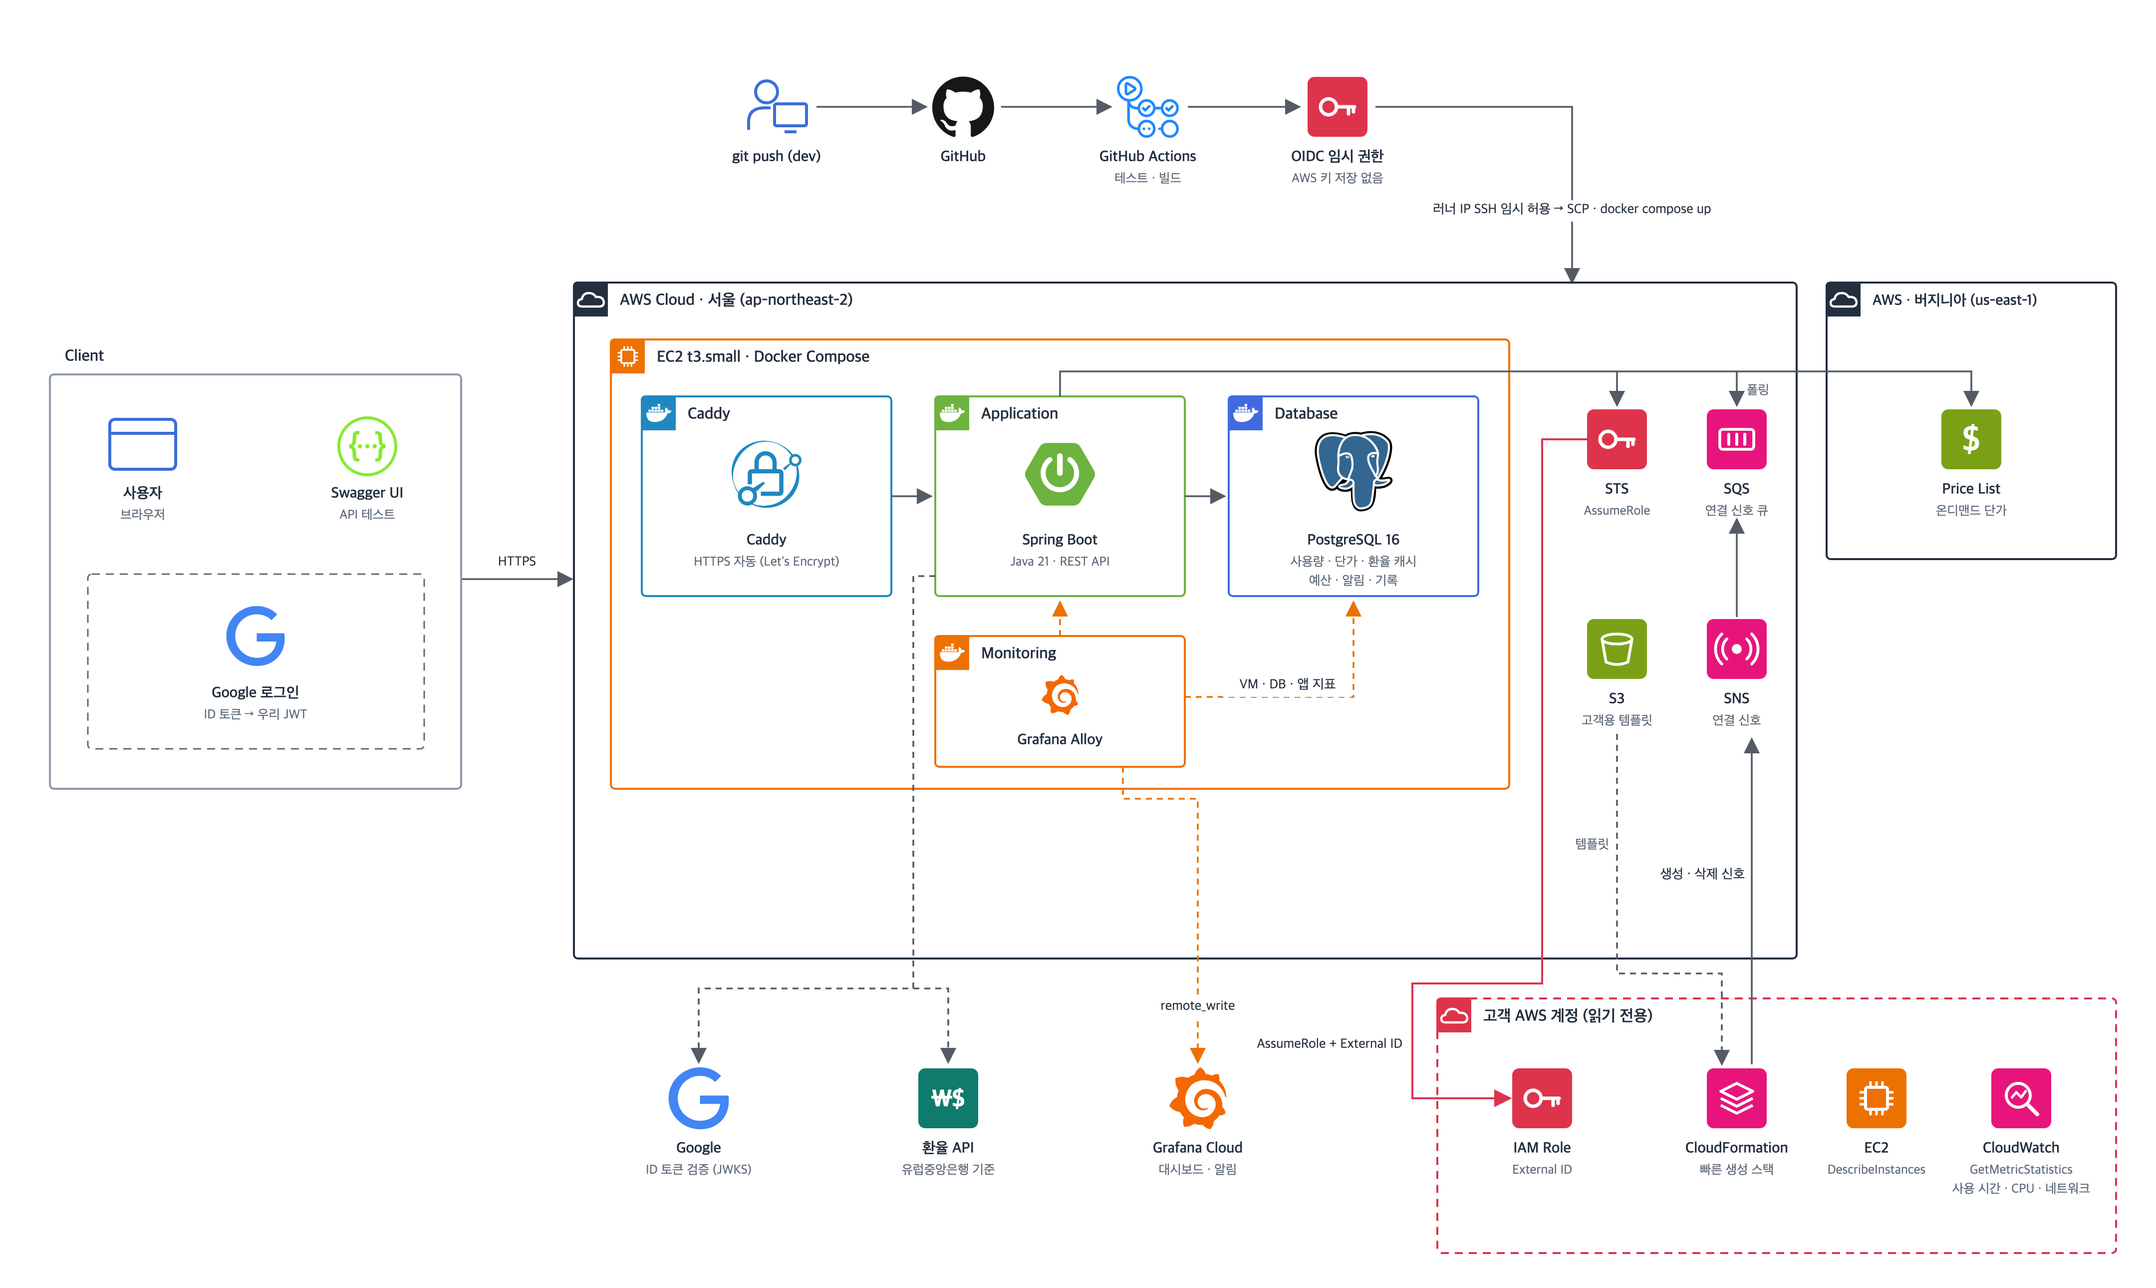
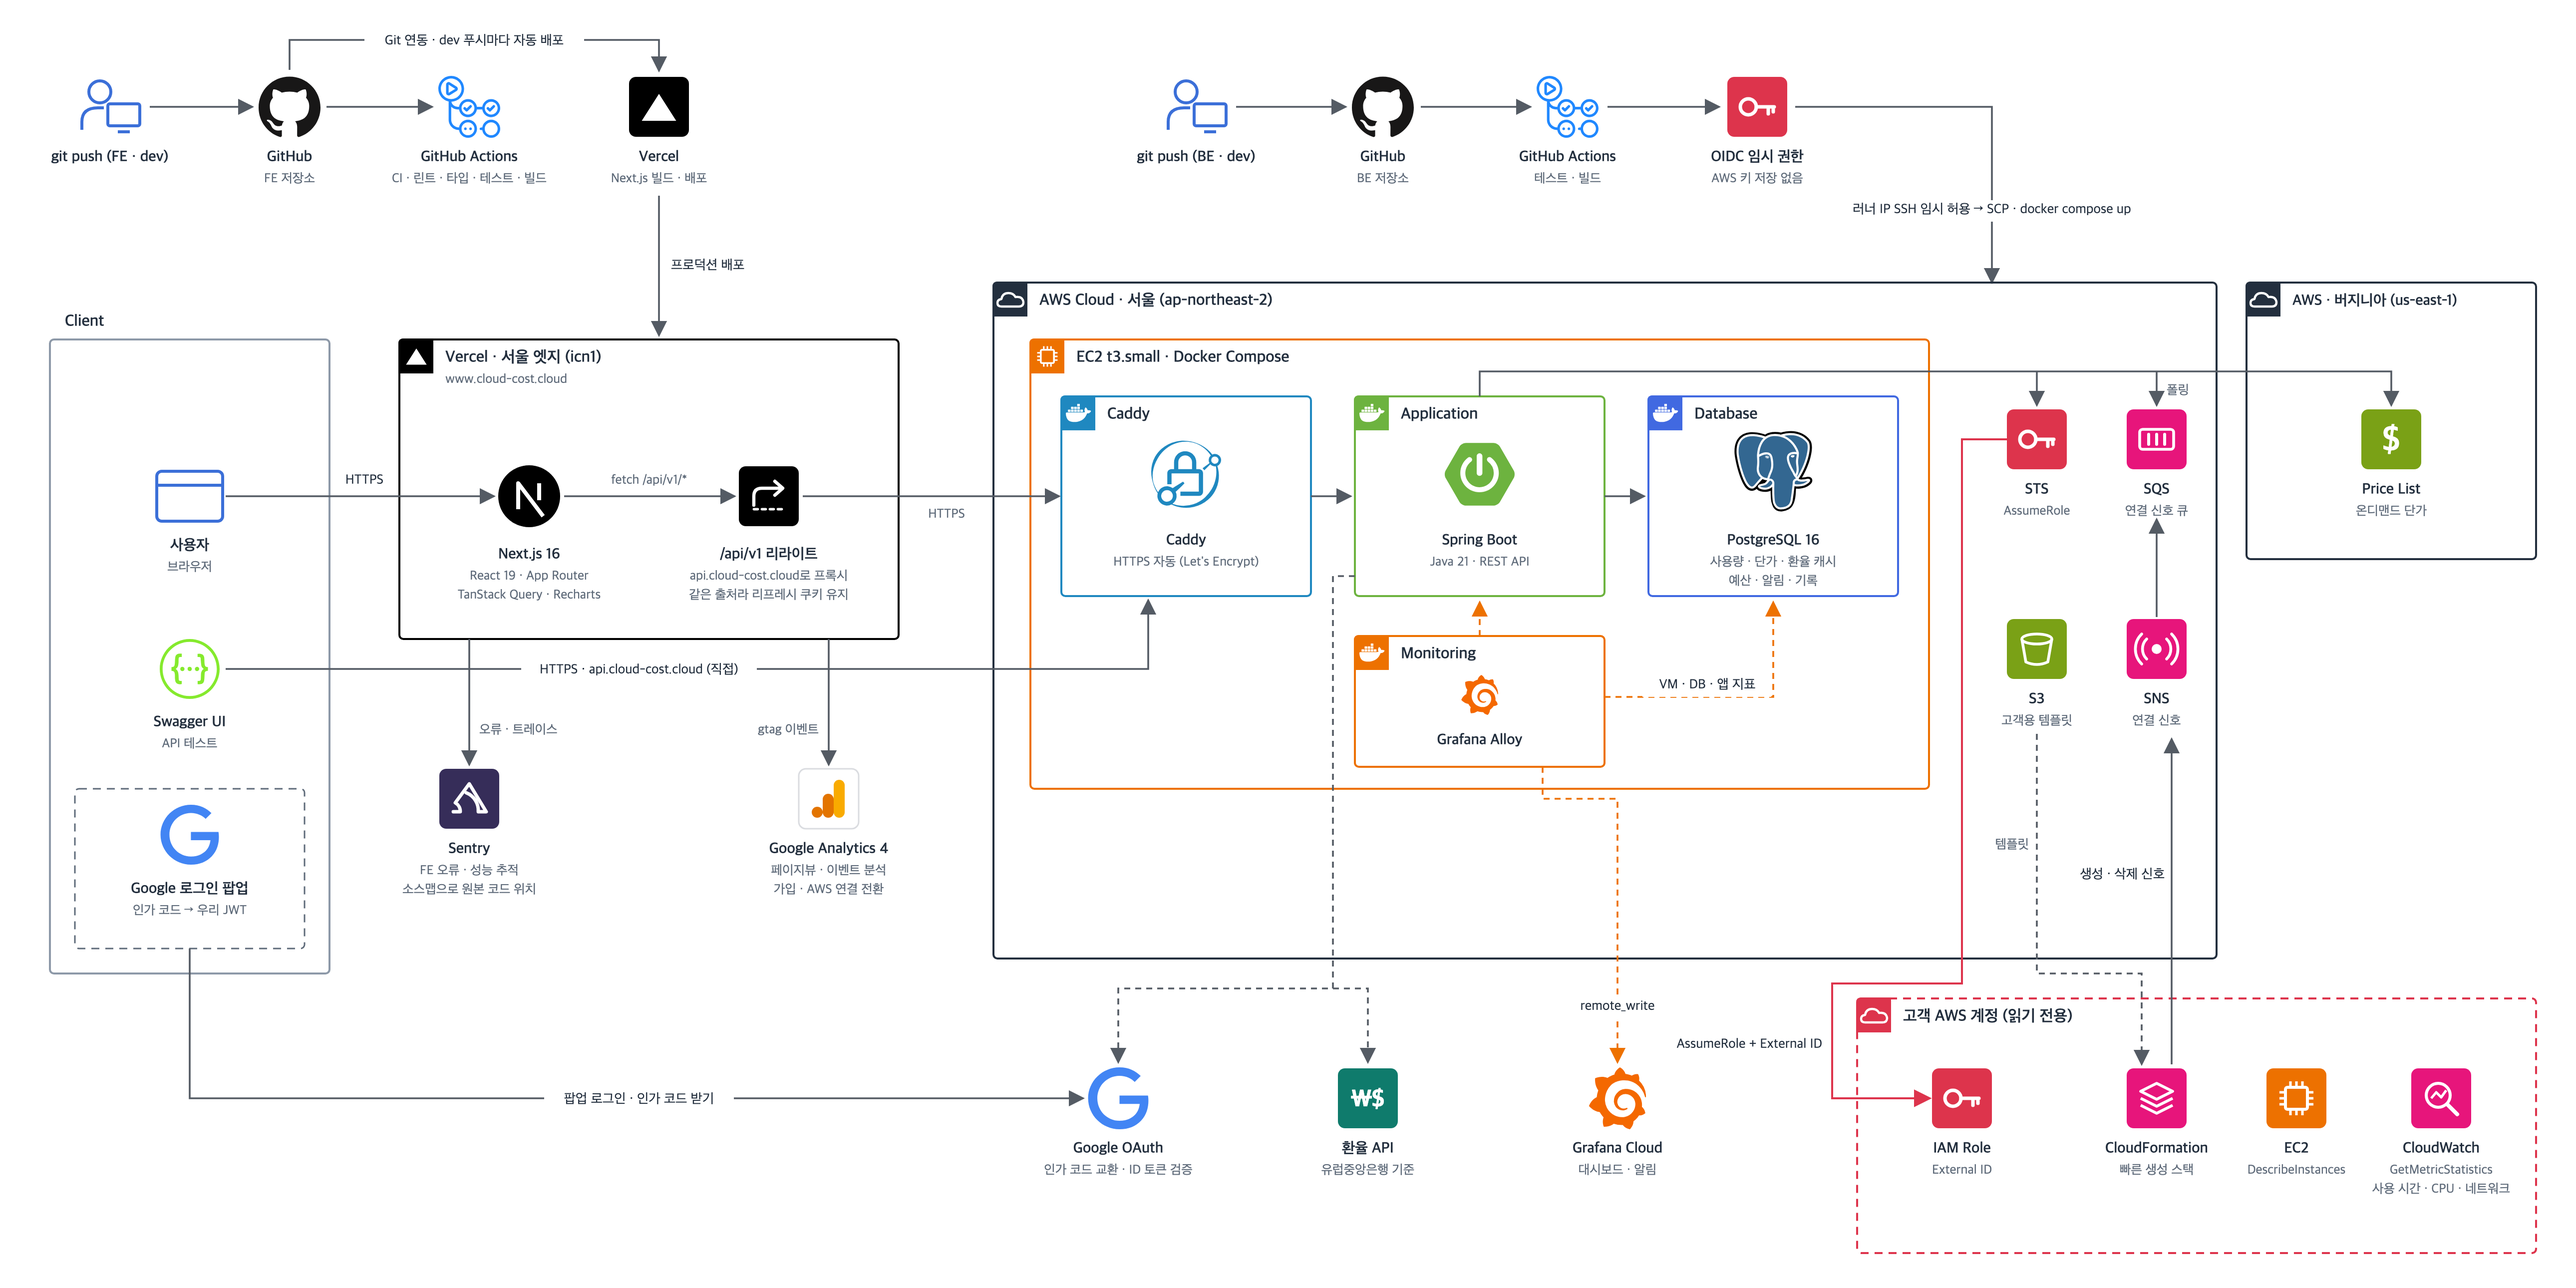
docs: 아키텍처 그림에 FE(Vercel · Sentry · GA4)를 더하고 README 보강
- 브라우저 → Vercel(Next.js) → /api/v1 리라이트 → Caddy 흐름과 FE 배포 경로(GitHub Actions CI · Vercel 자동 배포)를 그림에 추가
- FE 관측 도구 Sentry(오류 · 성능)와 Google Analytics 4(이벤트 분석) 표시
- Google 로그인을 팝업 인가 코드 교환 · ID 토큰 검증 방식으로 고쳐 그림
- README 아키텍처 아래에 FE 연결 방식을 적고, 로그인 설명을 인가 코드 방식으로 맞춤

diff --git a/README.md b/README.md
@@ -8,6 +8,9 @@
 
 ![CloudCost 아키텍처](assets/architecture.png)
 
+- 프론트엔드(Next.js)는 Vercel 서울 엣지에서 서비스하며, 브라우저의 `/api/v1` 요청을 Vercel 리라이트로 이 서버(Caddy)에 넘깁니다. 같은 출처라 리프레시 쿠키가 그대로 오갑니다. → [CLOUD-COST-FE](https://github.com/cloudcost-team/CLOUD-COST-FE)
+- 프론트엔드 오류·성능은 Sentry, 사용자 행동은 Google Analytics 4로 수집합니다.
+
 ## Key Features
 
 | | 영역 | 한 줄 요약 |
@@ -68,7 +71,7 @@
 
 | 기능 | 내용 |
 |---|---|
-| 로그인 | Google ID Token 검증 후 자체 JWT 발급 |
+| 로그인 | Google 팝업 인가 코드 교환 · ID Token 검증 후 자체 JWT 발급 |
 | 읽기 전용 연동 | STS AssumeRole + 연결별 External ID |
 | 최소 권한 | 고객 계정에는 `ec2:DescribeInstances`, `cloudwatch:GetMetricStatistics`만 호출 |
 | 데이터 격리 | 모든 조회에 `owner_id` 조건, 남의 리소스는 404 |
